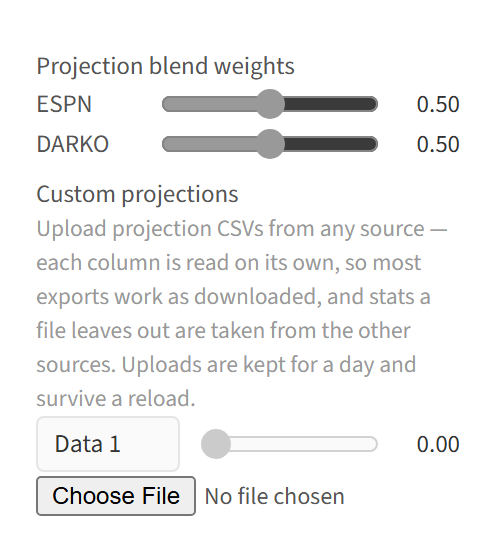
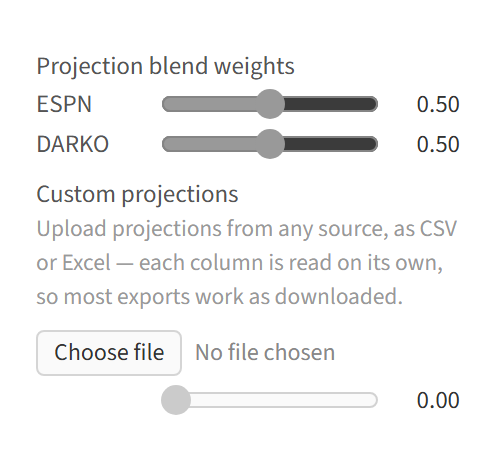
Trim the custom-upload caption, and rebuild the docs
The sidebar caption said more than the panel needs to. What a file leaving out a category
means for the blend is documented in the projections page, and the upload's own status line
names the missing statistics when it happens; the day-long retention only ever mattered at
expiry, which announces itself in the slot. What is left is what the caption is for: any
source, CSV or Excel, columns read individually, most exports work as downloaded.

Also carries the projections-page edits (the stale-forecast note, weight re-scaling, missing
categories) with the note's year corrected to 2026, plus the regenerated screenshot and the
rebuilt site.

diff --git a/site/projections/index.html b/site/projections/index.html
@@ -681,11 +681,10 @@
 <p>The default for player statistics is to use forward-looking projections.</p>
 <p><img alt="Projection source weights" src="../img/projections.png" /></p>
 <p>The default projection source is a 50/50 split between ESPN's free forecasts and a modified version of DARKO. The website's version of DARKO projections takes games played and total minutes from the ESPN forecasts, and combines those with DARKO pace and per-possession projections to get per-game projections. This is necessary because DARKO does not forecast games played, and its minute forecasts are designed for the next game only, which is not ideal for fantasy. </p>
-<p><strong>Note as of December 2025: the ESPN forecasting page currently has bugs, and for that reason the ESPN projections have not been updated since October.</strong></p>
-<p>Any other set of projections can be uploaded as a CSV. There is no list of supported providers: the website reads each column on its own and recognizes the common ways each statistic is labelled, so most exports work as downloaded, and a file that already uses the website's own column names always works. A file does not need to carry every category either — some providers pair a projection set with a league and export only that league's active categories. Whatever is missing is simply taken from the other sources in the blend, and the upload note says which statistics were absent. If a file is not recognized at all, the error names the headers it could not interpret. Uploaded projections can also be edited by hand before uploading, if you want to adjust individual forecasts.</p>
-<p>Two paid products worth mentioning, since both need a little preparation: Hashtag Basketball has no download option, so the projections must be copy pasted into a spreadsheet and saved as a CSV; Basketball Monster does have one, but only the XLSX download works, so download that, copy the projections into a spreadsheet, and save as CSV UTF-8. </p>
-<p>Also: be careful to download projections for all players instead of just the top players. During a draft, another drafter may take a player outside of the limited projection list, and the website will only have projections for them if they have been provided. </p>
-<p>Projections are combined between different sources by taking weighted means according to the provided weights. If the assigned weights add up to more or less than 1, they will be scaled to add to 1. </p>
+<p><strong>Note as of August 2026: the ESPN forecasting page currently has bugs, and for that reason the ESPN projections have not been updated since October. The DARKO app projections have also been down. So right now, the default forecasts are very stale</strong></p>
+<p>The weights are always re-scaled so they add up to 100%. E.g. if DARKO is set to 75% while ESPN is still at 50%, that re-scales to 60% DARKO and 40% ESPN. </p>
+<p>Any other set of projections can be uploaded and included in the blend, as either a CSV or an Excel file. There is no list of supported providers: the website reads each column on its own and recognizes the common ways each statistic is labelled, so most exports work as downloaded. If a file is missing a category, which is common for non-standard categories like Double Doubles, that category can still be used if at least one other projection set has the category. The category will just ignore the weight of the projection that does not have it. </p>
+<p>One note of caution: be careful to download projections for all players instead of just the top players. During a draft, another drafter may take a player outside of the limited projection list, and the website will only have projections for them if they have been provided. </p>
 <h3 id="historical-data">Historical data</h3>
 <p>Historical data from past seasons is available for manual entry drafts. The season selector defaults to the most recent available season.</p>
 <p>Historical data is available going all the way back to the 1984-85 season, though for any season before 2000-01 player positions will not be available. </p>

diff --git a/frontend/parameter_collection/player_stats.ts b/frontend/parameter_collection/player_stats.ts
@@ -250,8 +250,7 @@ function renderBlendWeights(container: HTMLElement): void {
     customCaption.className = 'sidebar-caption'
     customCaption.textContent =
         'Upload projections from any source, as CSV or Excel — each column is read on its ' +
-        'own, so most exports work as downloaded, and stats a file leaves out are taken ' +
-        'from the other sources. Uploads are kept for a day and survive a reload.'
+        'own, so most exports work as downloaded.'
     container.append(customCaption)
 
     const customRowsContainer = document.createElement('div')

diff --git a/docs/projections.md b/docs/projections.md
@@ -14,15 +14,13 @@ The default for player statistics is to use forward-looking projections.
 
 The default projection source is a 50/50 split between ESPN's free forecasts and a modified version of DARKO. The website's version of DARKO projections takes games played and total minutes from the ESPN forecasts, and combines those with DARKO pace and per-possession projections to get per-game projections. This is necessary because DARKO does not forecast games played, and its minute forecasts are designed for the next game only, which is not ideal for fantasy. 
 
-**Note as of December 2025: the ESPN forecasting page currently has bugs, and for that reason the ESPN projections have not been updated since October.**
+**Note as of August 2026: the ESPN forecasting page currently has bugs, and for that reason the ESPN projections have not been updated since October. The DARKO app projections have also been down. So right now, the default forecasts are very stale**
 
-Any other set of projections can be uploaded, as either a CSV or an Excel file. There is no list of supported providers: the website reads each column on its own and recognizes the common ways each statistic is labelled, so most exports work as downloaded, and a file that already uses the website's own column names always works. Text files are read whatever character encoding they were saved in, so there is no need to re-save them as UTF-8. A file does not need to carry every category either — some providers pair a projection set with a league and export only that league's active categories. Whatever is missing is simply taken from the other sources in the blend, and the upload note says which statistics were absent. If a file is not recognized at all, the error names the headers it could not interpret. Uploaded projections can also be edited by hand before uploading, if you want to adjust individual forecasts.
+The weights are always re-scaled so they add up to 100%. E.g. if DARKO is set to 75% while ESPN is still at 50%, that re-scales to 60% DARKO and 40% ESPN. 
 
-Two paid products worth mentioning: Hashtag Basketball has no download option, so the projections must be copy pasted into a spreadsheet, which can then be uploaded directly; Basketball Monster's XLSX download can be uploaded as it is. 
+Any other set of projections can be uploaded and included in the blend, as either a CSV or an Excel file. There is no list of supported providers: the website reads each column on its own and recognizes the common ways each statistic is labelled, so most exports work as downloaded. If a file is missing a category, which is common for non-standard categories like Double Doubles, that category can still be used if at least one other projection set has the category. The category will just ignore the weight of the projection that does not have it. 
 
-Also: be careful to download projections for all players instead of just the top players. During a draft, another drafter may take a player outside of the limited projection list, and the website will only have projections for them if they have been provided. 
-
-Projections are combined between different sources by taking weighted means according to the provided weights. If the assigned weights add up to more or less than 1, they will be scaled to add to 1. 
+One note of caution: be careful to download projections for all players instead of just the top players. During a draft, another drafter may take a player outside of the limited projection list, and the website will only have projections for them if they have been provided. 
 
 ### Historical data
 
